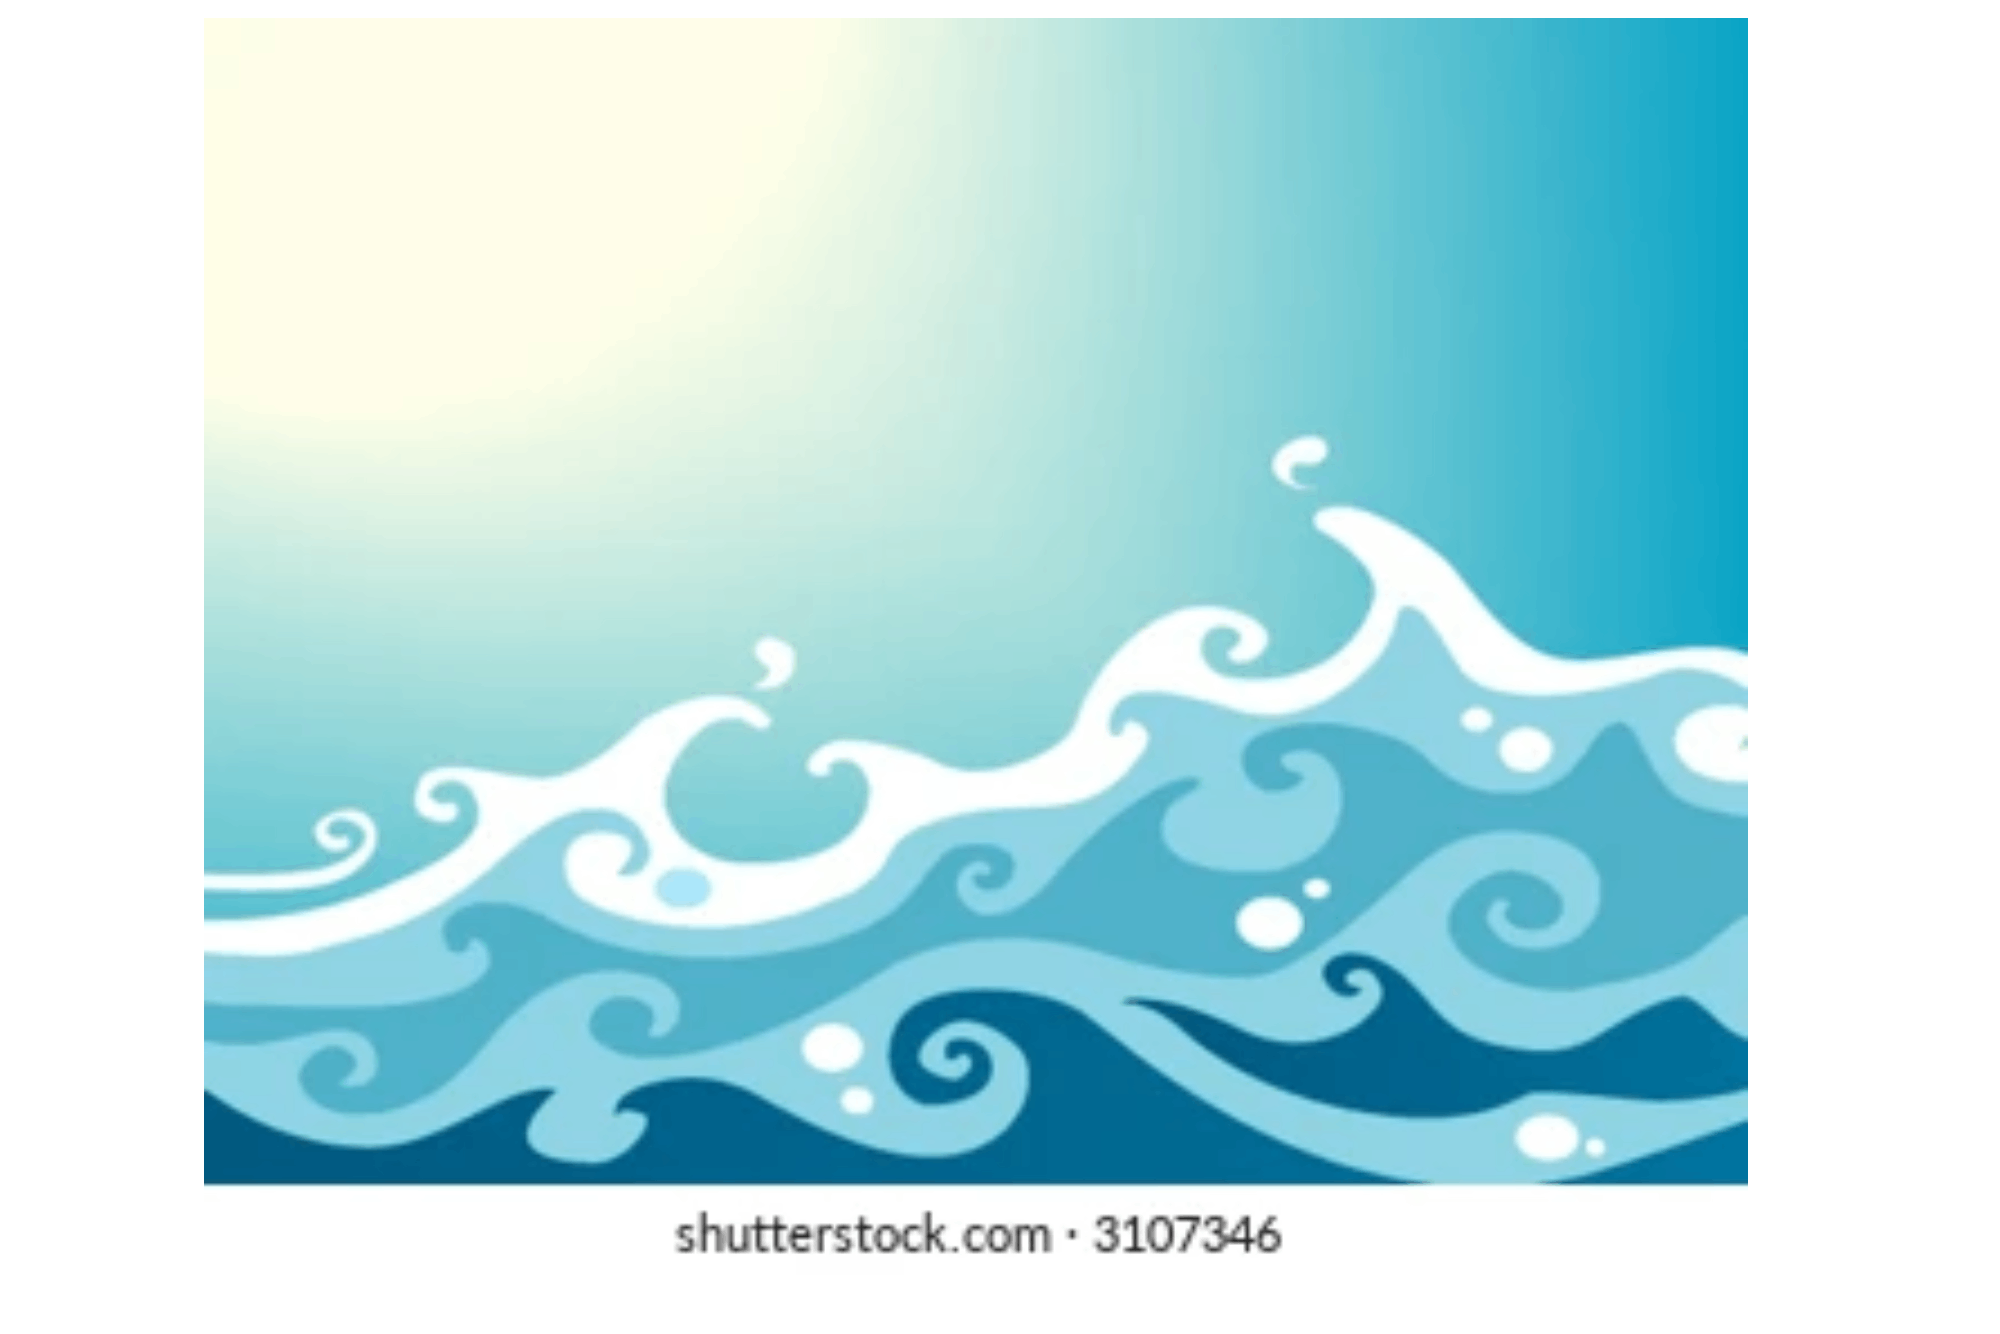
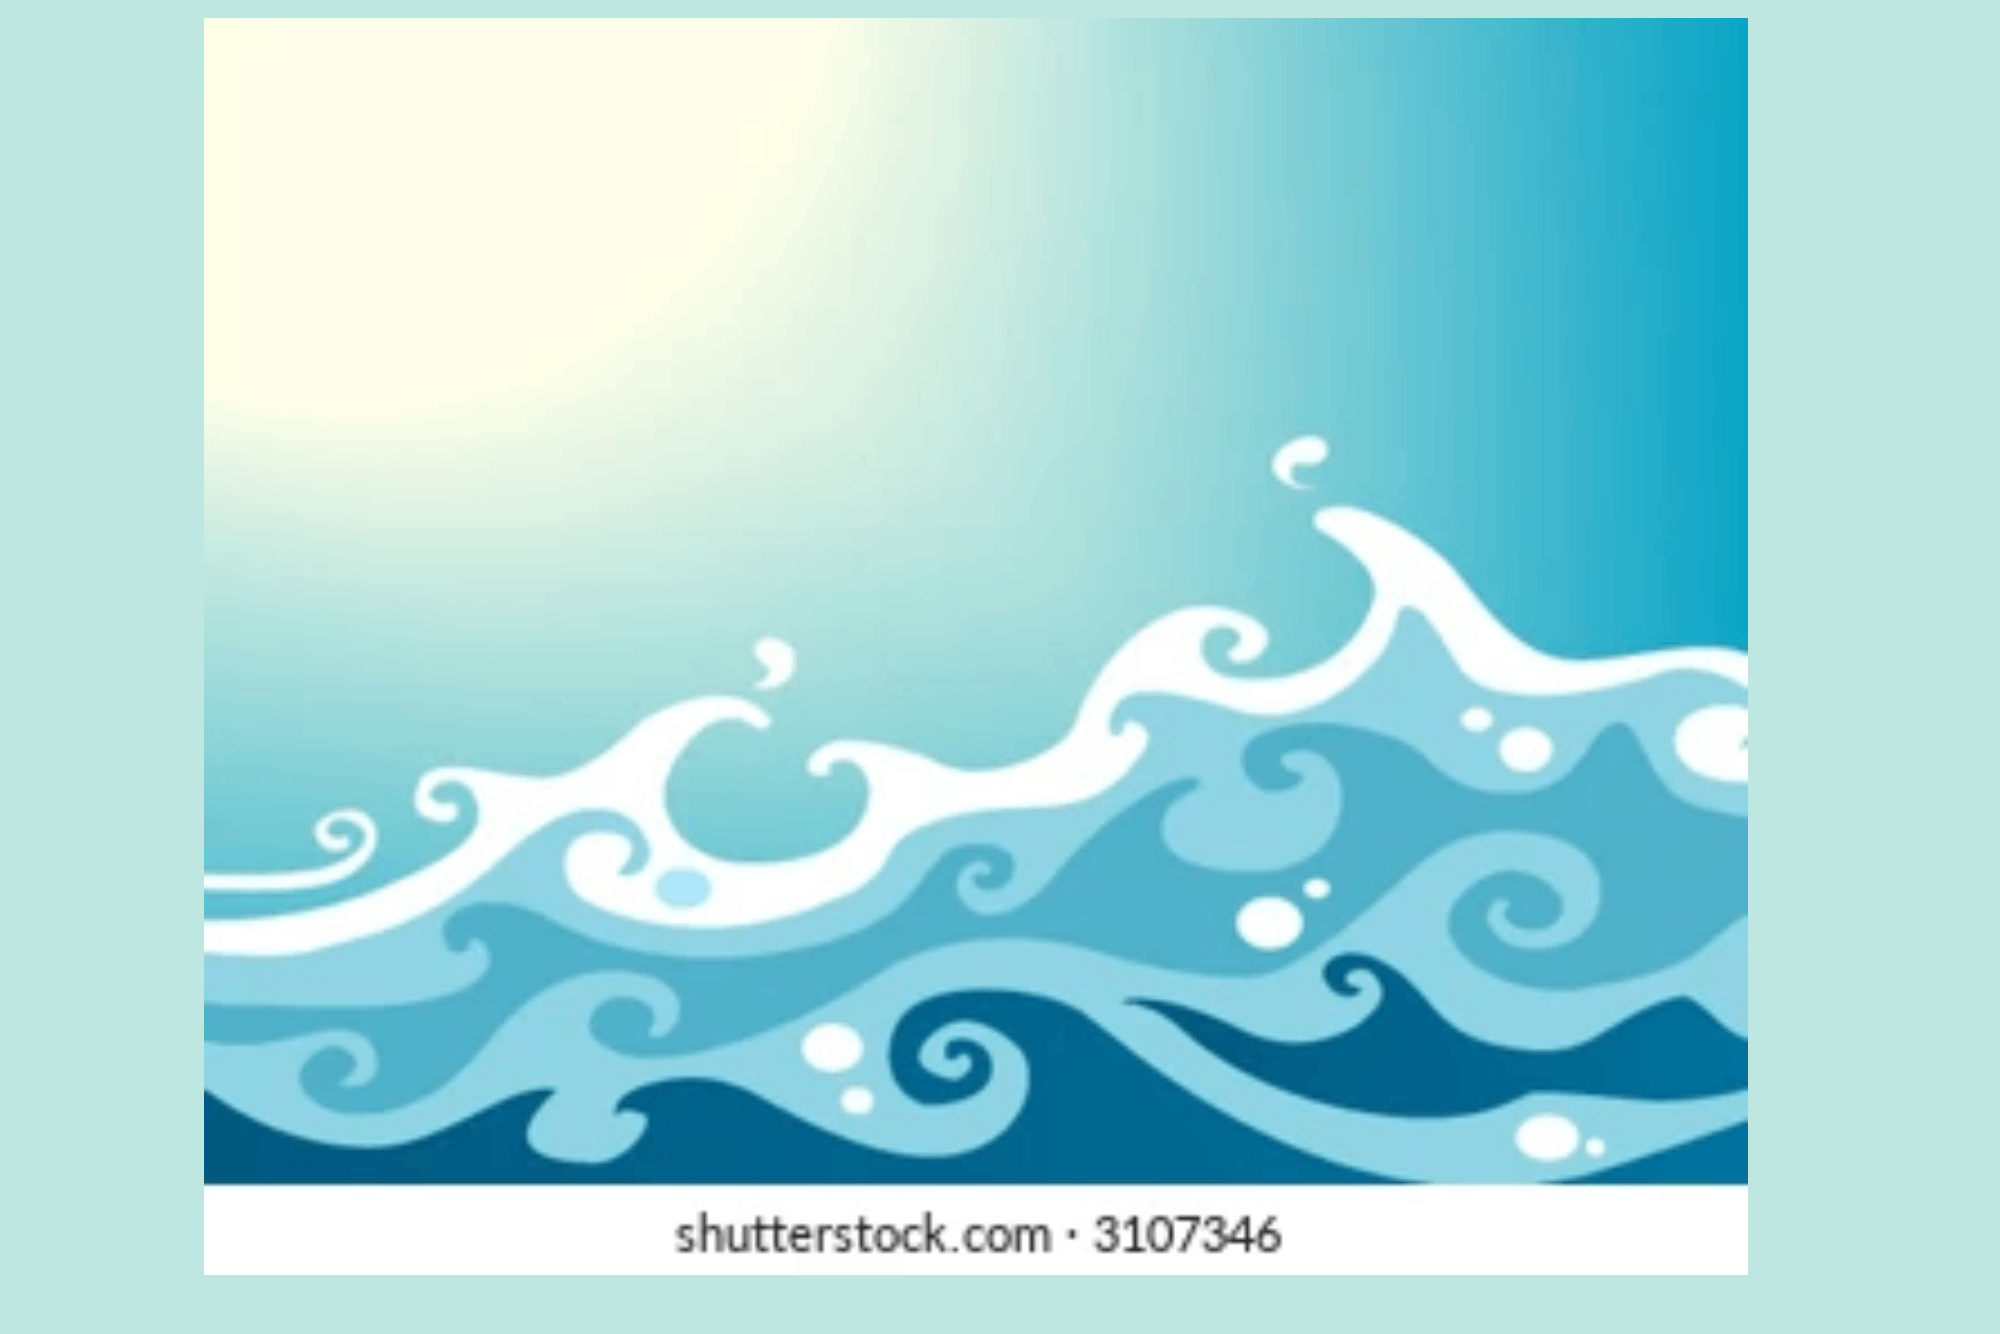
upload new waves image

Changed region(s): [[0.0, 0.0, 1.0, 1.0]]

diff --git a/src/index.html b/src/index.html
@@ -89,12 +89,12 @@
       <h2>Empieza tu Viaje por la Tradición y el Sabor de Canarias</h2>
       <img
         class="tenerife"
-        src="./assets/teide.jpg?as=webp&width=1200"
+        src="./assets/waves.png?as=webp&width=1200"
         srcset="
-          ./assets/teide.jpg?as=webp&width=768 768w,
-          ./assets/teide.jpg?as=webp&width=1024 1024w,
-          ./assets/teide.jpg?as=webp&width=1600 1600w,
-          ./assets/teide.jpg?as=webp&width=2400 2400w
+          ./assets/waves.png?as=webp&width=768 768w,
+          ./assets/waves.png?as=webp&width=1024 1024w,
+          ./assets/waves.png?as=webp&width=1600 1600w,
+          ./assets/waves.png?as=webp&width=2400 2400w
         "
         sizes="(min-width: 1140px) 600px, 100vw"
         alt=""
